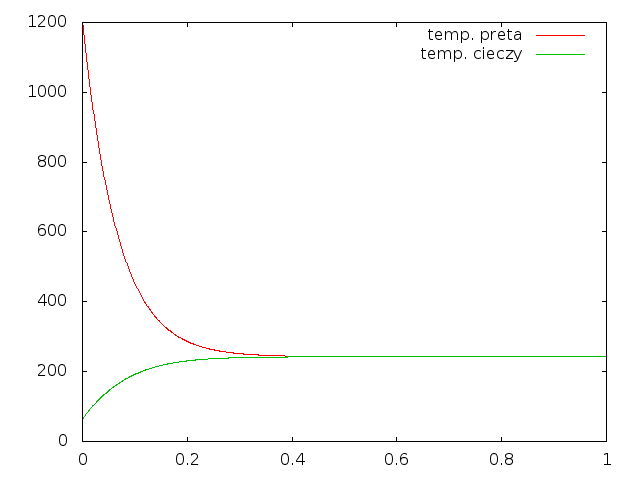
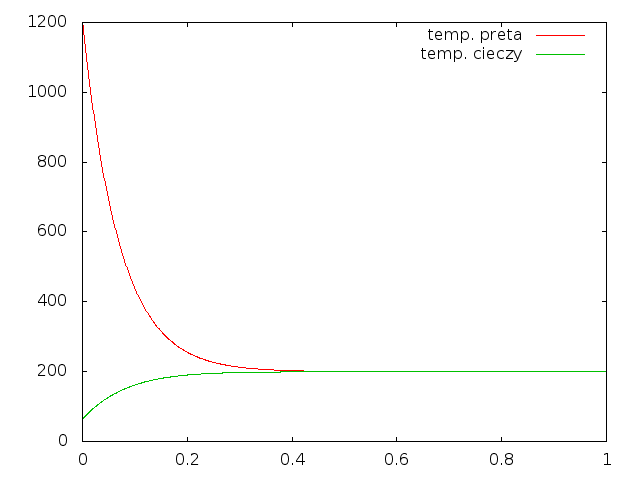
Poprawiona bisekcja, dodana regulacja bledu temperatury, usunieta irytujaca literowka przy wypisywaniu wyniku.

diff --git a/project/bisekcja.c b/project/bisekcja.c
@@ -1,29 +1,41 @@
 #include "bisekcja.h"
 #include "czas.h"
-#include "analizator_danych.h"
 #include <stdio.h>
+
+double wynikosprawdzacz( cool_t t) {
+        double czas = 0;
+        int i = 0;
+
+        while(t->Y[0][i]-t->Y[1][i] > t->dt) {
+                czas += t->dt;
+                i++;
+
+                if(i == t->Yc)
+                        return -1;
+        }
+
+        return czas;
+}
 
 static double wynik(cool_t t, double mW) {
 	t->stale.mw = mW;
 	
 	t = przebiegnij(t);
-	return wynikosprawdzacz(t);
+	return t->Y[0][t->Yc];
 }
 
 double szukaj_bisekcyjnie( cool_t t) {
-	double eps = 0.0599;
 	double a = 0.001;
-	double b = 100.0;
+	double b = 200.0;
 	double tmp = (a+b)/2;
-
-	while(wynik(t, tmp) > t->tend+eps || wynik(t, tmp) < t->tend-eps) {
-		if(wynik(t, tmp) < t->tend)
-			a = tmp;
-		else
+	
+	while( wynik(t, tmp) > t->tempend+t->tempeps || wynik(t, tmp) < t->tempend-t->tempeps) {
+		if(wynik(t, tmp) < t->tempend)
 			b = tmp;
+		else
+			a = tmp;
 		tmp = (a+b)/2;
 	}
-	
 	
 	return tmp;
 }

diff --git a/project/main.c b/project/main.c
@@ -5,7 +5,6 @@
 #include "alloc.h"
 #include "czas.h"
 #include "wykreslnik.h"
-#include "analizator_danych.h"
 #include "bisekcja.h"
 #include "aproksymator/splines.h"
 #include "aproksymator/points.h"
@@ -84,11 +83,11 @@ int main(int argc, char **argv){
 	
 	if( bool3 == 0 ){
 		cool_data = przebiegnij( cool_data );
-		printf("Temperatura koncowa: %g\n", cool_data->Y[0][cool_data->Yc]);
-		printf("Czas po ktorym pret osiagnie dana temperature: %g\n", wynikosprawdzacz(cool_data));
+		printf("\nTemperatura koncowa: %gC\n", cool_data->Y[0][cool_data->Yc]);
+		printf("Czas, po ktorym pret osiagnie dana temperature: %gs\n\n", wynikosprawdzacz(cool_data));
 
 	} else {
-		printf("Masa wody wymagana do schlodzenia preta do tmeperatury %g w %g sek.: %g\n", cool_data->tempend ,cool_data->tend , szukaj_bisekcyjnie(cool_data));	
+		printf("\nMasa wody wymagana do schlodzenia preta do temperatury %gC: %gkg\n\n", cool_data->tempend, szukaj_bisekcyjnie(cool_data));
 	}
 
 	fclose( in );	

diff --git a/project/alloc.c b/project/alloc.c
@@ -24,7 +24,7 @@ cool_t startalloc( cool_t cool_data , int max_iter ){
 	cool_data->stale.mb = 0.4;
 	cool_data->stale.mw = 2.5;
 	cool_data->stale.cb = 0.22;
-	cool_data->tend = 0.4;
+	cool_data->tempeps = 0.25;
 	cool_data->tempend = 200;
 	cool_data->Yc = 1000;
 	cool_data->dt = 0.001;	
@@ -56,8 +56,8 @@ cool_t add_const( cool_t cool_data , FILE *in ){
 		if( strcmp( s , "h" ) == 0 ){
 			cool_data->stale.h = v;
 		}
-		if( strcmp( s , "tend" ) == 0 ){
-			cool_data->tend = v;
+		if( strcmp( s , "tempeps" ) == 0 ){
+			cool_data->tempeps = v;
 		}
 		if( strcmp( s , "tempend" ) == 0 ){
 			cool_data->tempend = v;

diff --git a/project/struct.h b/project/struct.h
@@ -18,7 +18,7 @@ typedef struct {
 	/**
 	  *krok czasowy
 	  */
-	double tend;
+	double tempeps;
 	double tempend;
 	spline_t *cw;
 	const_t stale;

diff --git a/project/bisekcja.h b/project/bisekcja.h
@@ -1,3 +1,5 @@
 #include "struct.h"
 
+double wynikosprawdzacz( cool_t t);
+
 double szukaj_bisekcyjnie( cool_t t);
